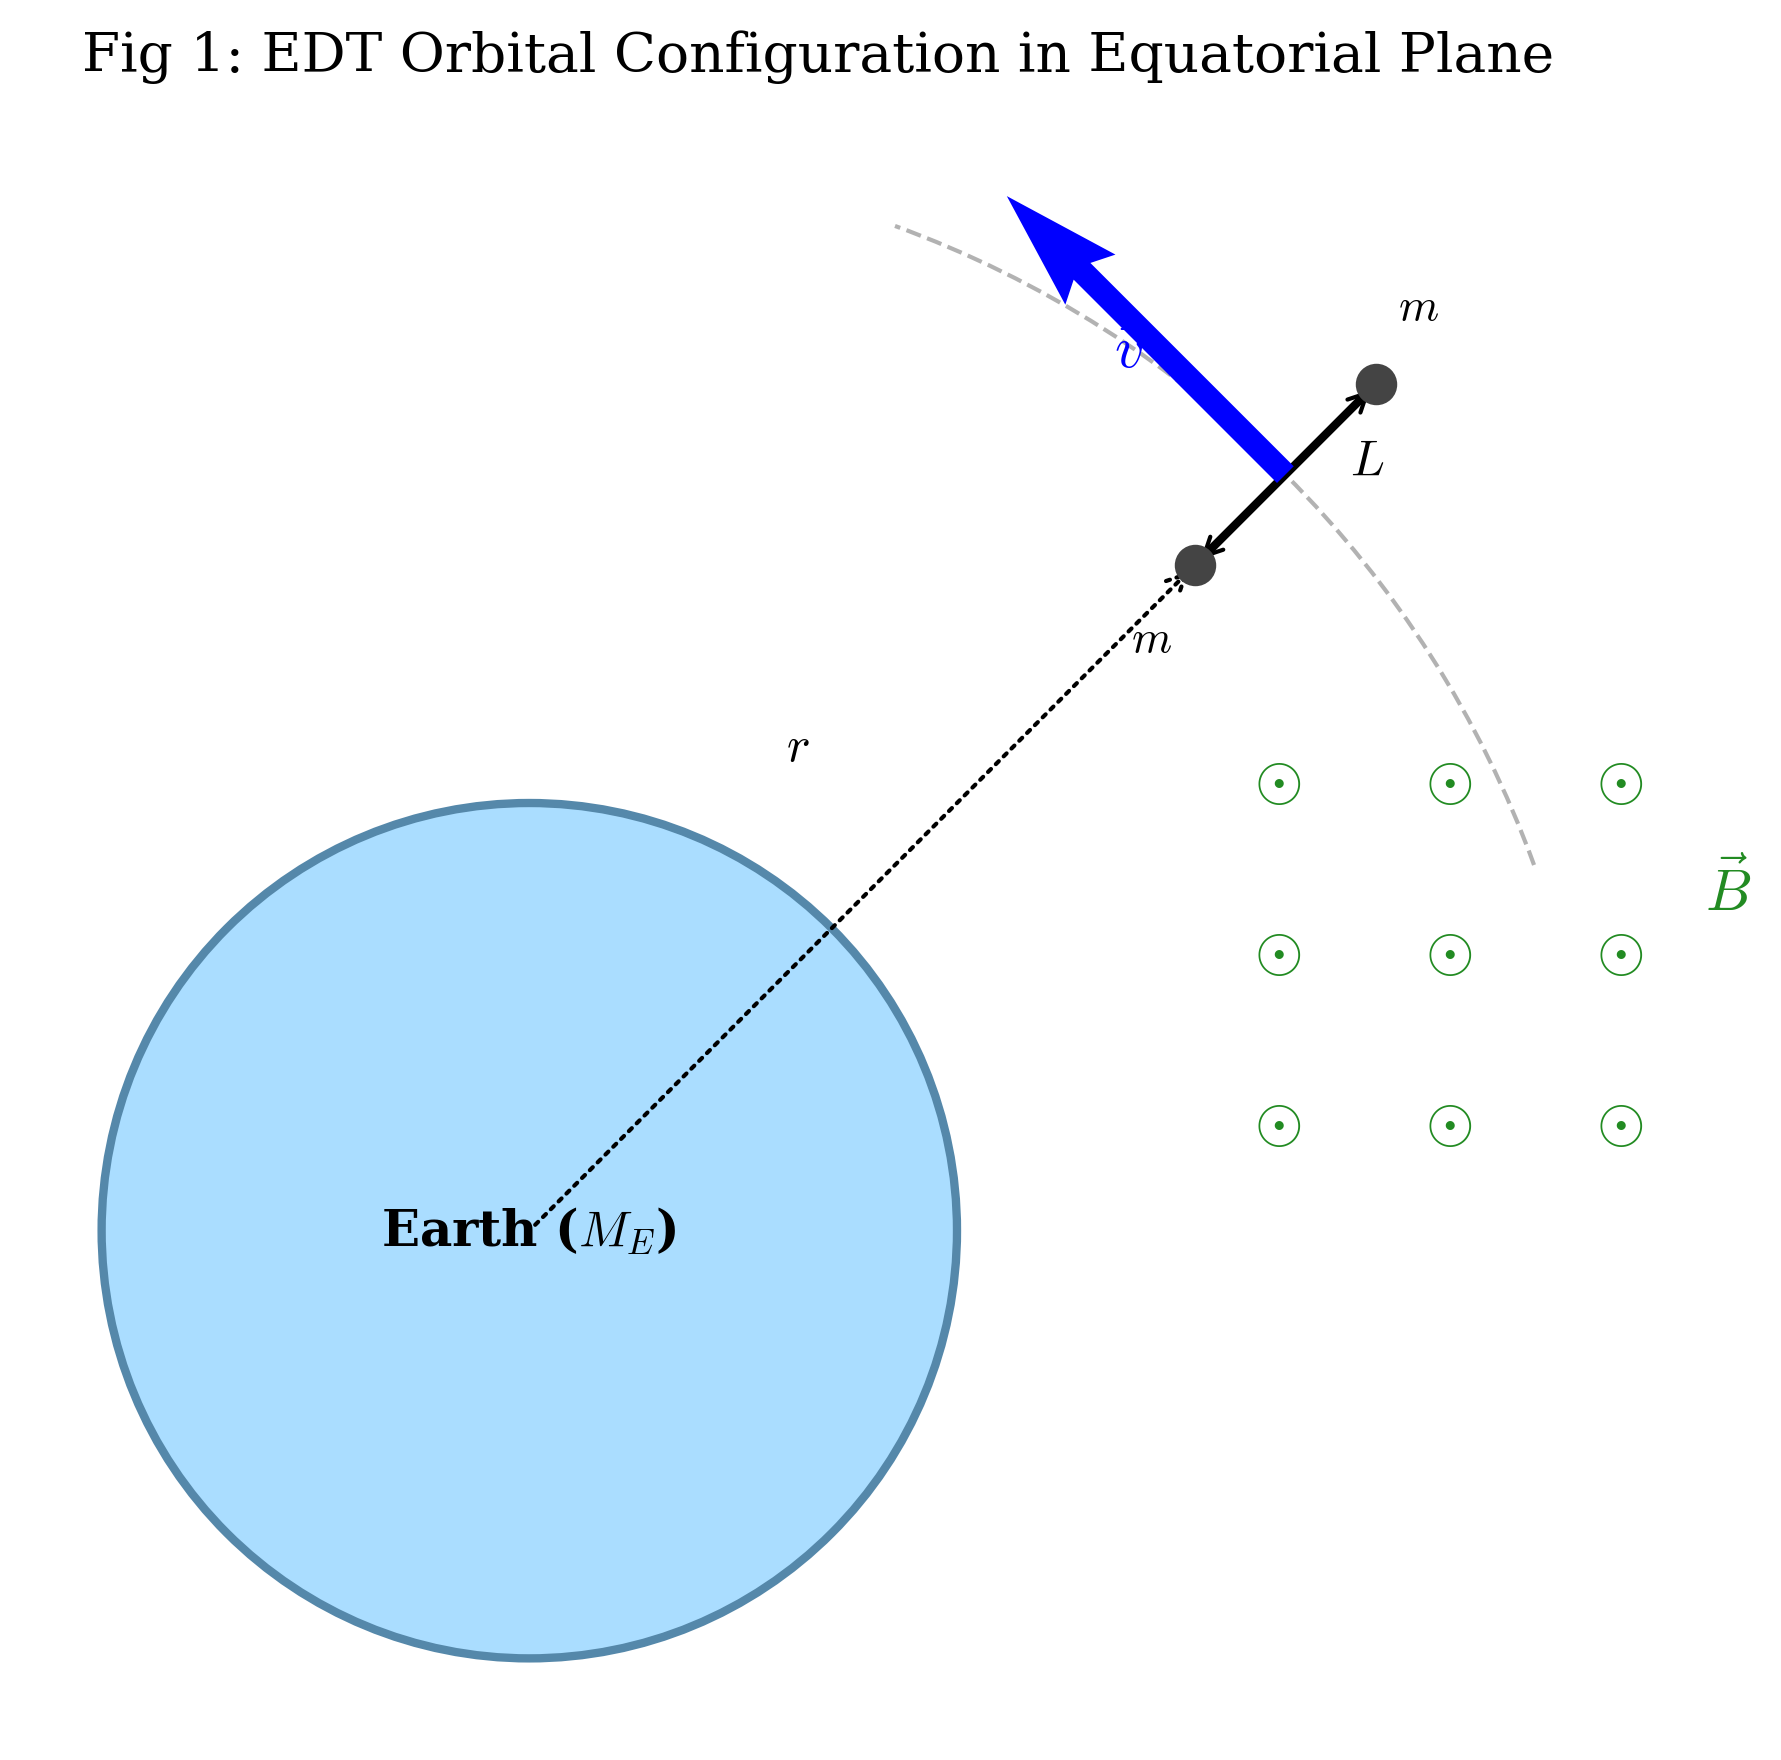
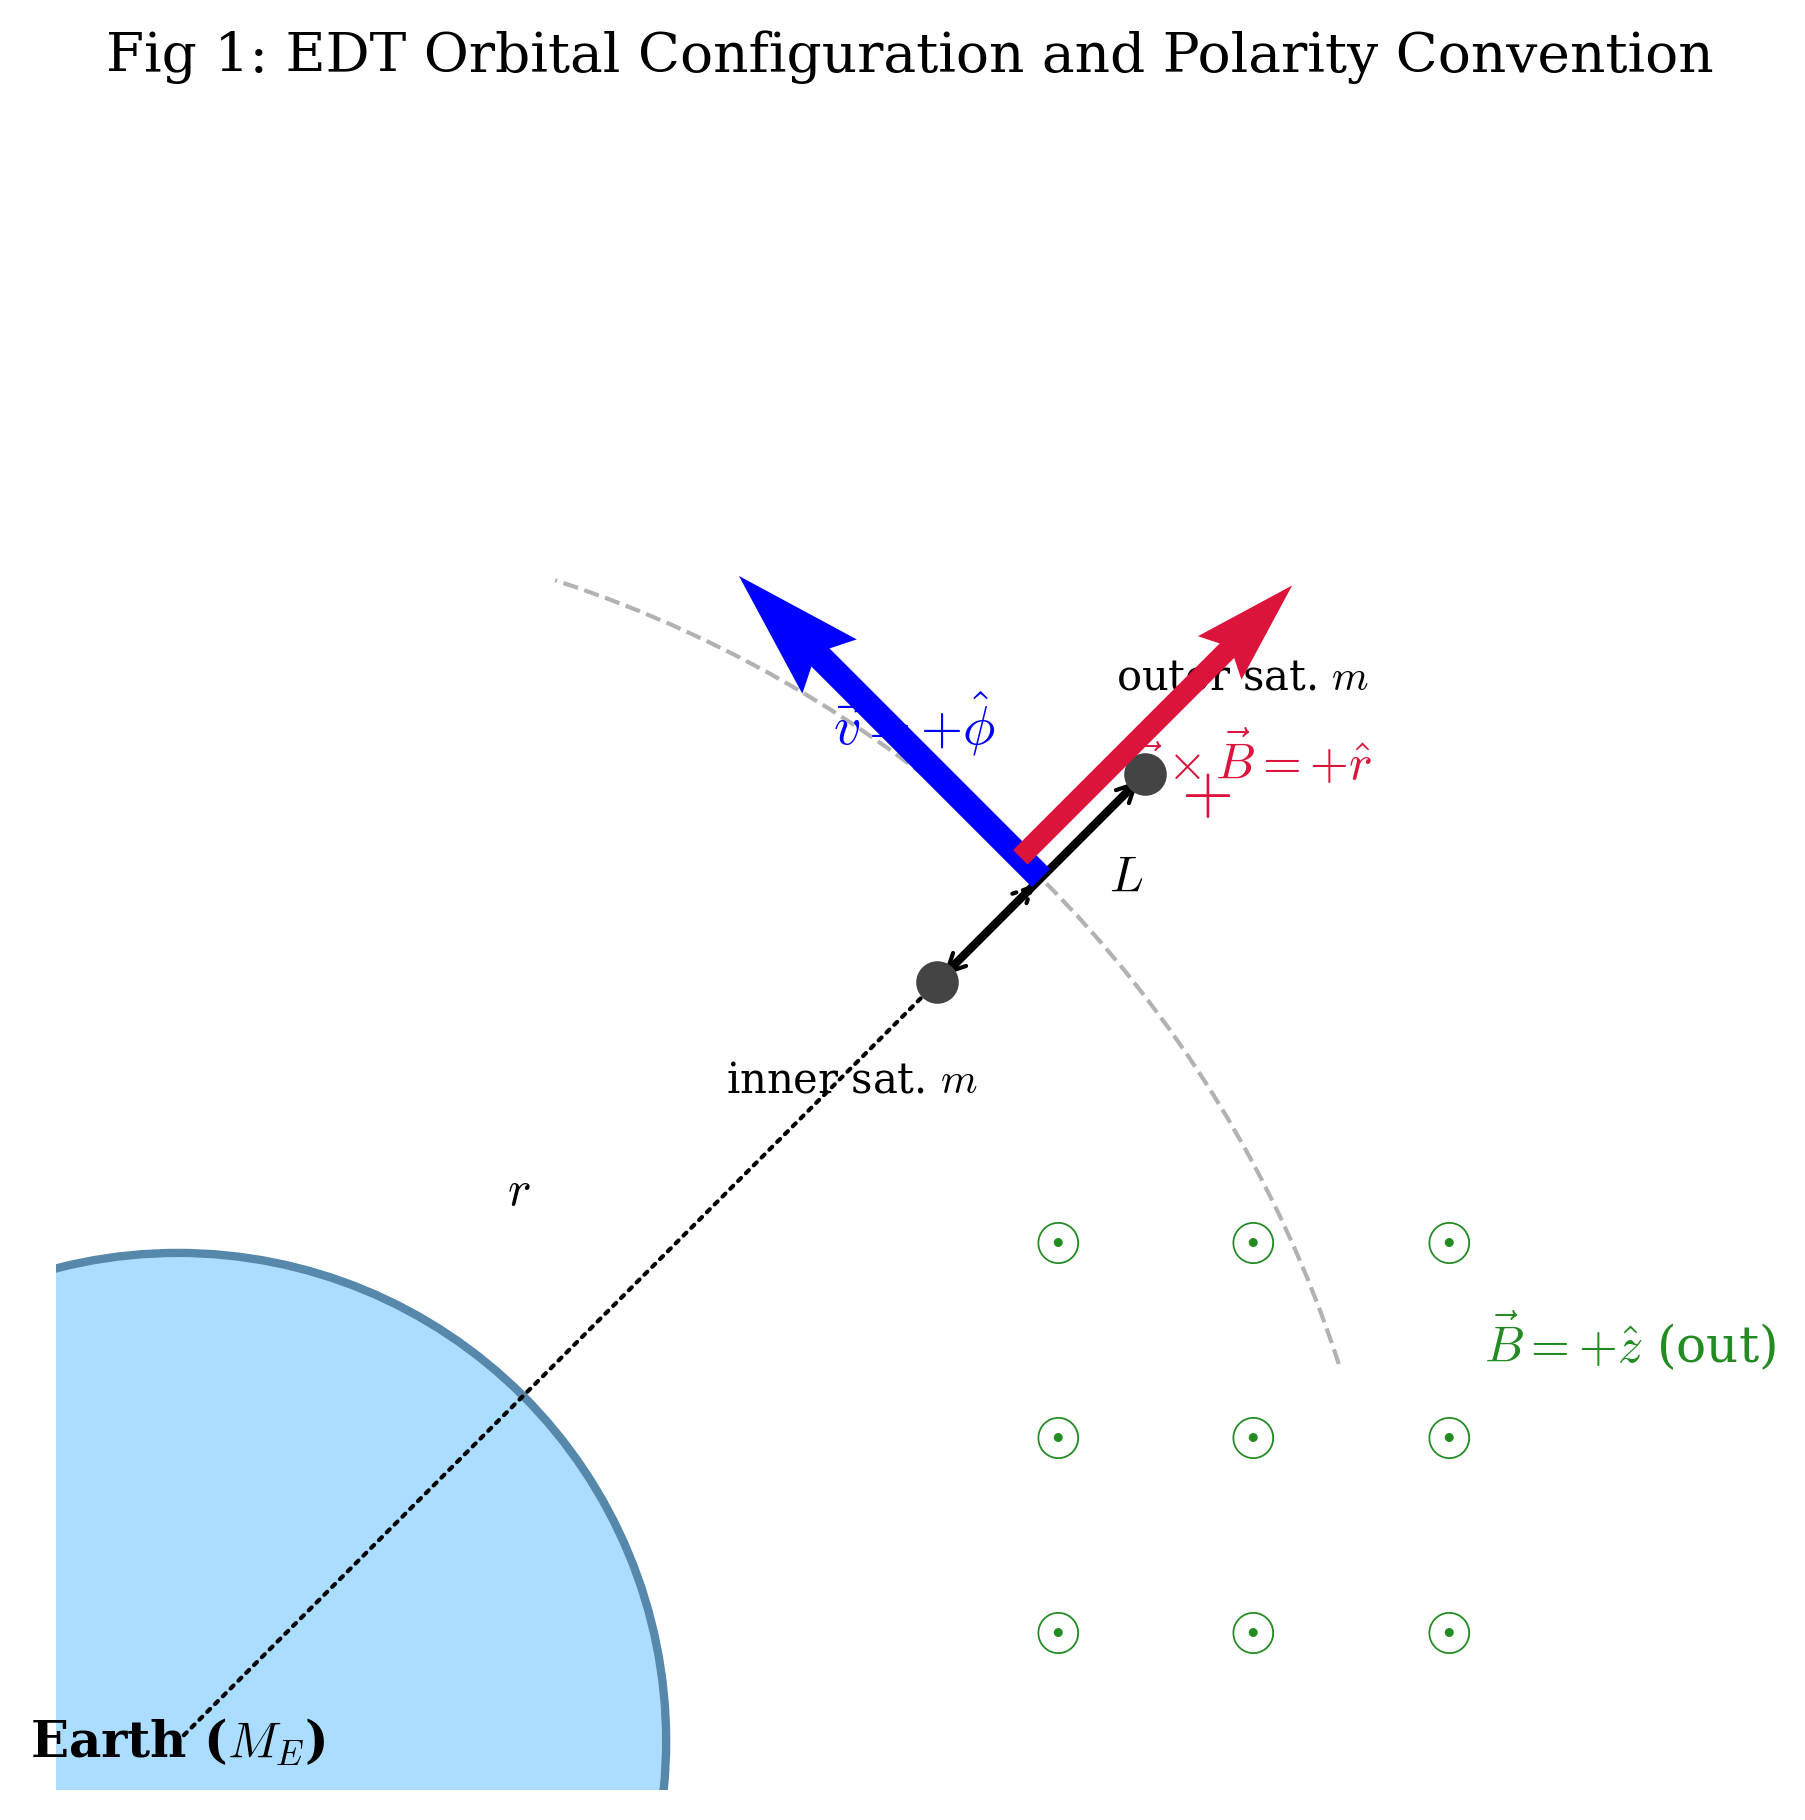
Add files via upload

diff --git a/23307110028刘宸昊/Q1_problem.md b/23307110028刘宸昊/Q1_problem.md
@@ -1,4 +1,4 @@
-
+
 # Question
 # Orbital Decay and Electro-Thermal Equilibrium of an Electrodynamic Tether
 ### Introduction
@@ -12,6 +12,7 @@ Electrodynamic tethers (EDTs) are long conducting wires used to exchange energy 
 *   The mechanical energy of a circular orbit with radius $r$ for a total mass $M_{tot}$ is $E = -\frac{G M_E M_{tot}}{2r}$.
 *   For any $x \ll 1$, the approximation $(1+x)^n \approx 1 + nx$ may be used.
 *   The effective emission area of the cathode is $S_{emit} = \eta S$, where $S$ is the total surface area of the tether and $\eta$ is a dimensionless factor.
+*   Unless stated otherwise, the diagrams use the sign convention $\vec v=+\hat\phi$ and $\vec B=+\hat z$ (out of the page), so $\vec v\times\vec B=+\hat r$ points radially outward.
 
 ---
 
@@ -23,7 +24,7 @@ Consider the tether system initially moving in a stable circular orbit of radius
 
 **A.2.** As the conductive tether cuts through the Earth's magnetic field lines, a motional electromotive force (EMF) is generated between its ends. Give the expression of this EMF, $\mathcal{E}$, as a function of $r$, $L$. **[1.0 pt]**
 
-**A.3.** Determine the polarity of the induced EMF, in other words, which satellite (the one closer to Earth or the one farther from Earth) accumulates positive charges? **[0.8 pt]**
+**A.3.** Using the direction convention shown in Figure 1, namely $\vec v=+\hat\phi$ and $\vec B=+\hat z$ so that $\vec v\times\vec B$ points radially outward, determine the polarity of the induced EMF. Which satellite (the one closer to Earth or the one farther from Earth) accumulates positive charges? **[0.8 pt]**
 
 ---
 
@@ -35,7 +36,7 @@ The tether is immersed in the ionospheric plasma, which is a dilute ionized gas.
 
 **B.2.** Due to the work done by the Lorentz force, the system's mechanical energy dissipates, causing the orbit to decay. Assuming the orbit remains quasi-circular at all times, derive the differential equation for the rate of change of the orbital radius, $dr/dt$, in terms of $I, B_0 L, m, M_E, R_E$, and $r$. **[1.5 pt]**
 
-**B.3.** Let $Q$ be the total charge transferred through the tether as the system descends from an initial radius $r_1$ to a final radius $r_2$. Prove that $Q = \int I dt$ depends only on $r_1, r_2$, and the planetary constants ($M_E, R_E, B_0$), but is independent of the tether's resistance $R$ or the specific time-evolution of the current. Find the expression for $Q$. **[1.5 pt]**
+**B.3.** Let $Q$ be the total charge transferred through the tether as the system descends from an initial radius $r_1$ to a final radius $r_2$. Prove that $Q=\int I dt$ is independent of the tether resistance $R$ and of the detailed time-evolution of the current, and find $Q$ in terms of $r_1$, $r_2$, $m$, $L$, and the planetary constants $M_E$, $R_E$, and $B_0$. **[1.5 pt]**
 
 ---
 
@@ -116,23 +117,23 @@ The phrase "tipping point where $I_{sat}$ is exactly limited by the available EM
   $$\mathcal{E} = B_0 R_E^3 L \sqrt{\frac{G M_E}{r^7}}$$
 
 **[A.3's Standard Solution]**
-- **[Physical Principles]**: The induced electric field is $\vec{E}_{ind} = \vec{v} \times \vec{B}$. In the Earth's equatorial plane, $\vec{v}$ is along the orbital tangent and $\vec{B}$ is directed toward the geographic North.
+- **[Physical Principles]**: The magnetic force on positive charges is $q\vec v\times\vec B$. Under the sign convention in Figure 1, $\vec v=+\hat\phi$ and $\vec B=+\hat z$; therefore $\vec v\times\vec B=+\hat r$.
 - **[Derivation Steps]**:
-  Using the right-hand rule, $\vec{v} \times \vec{B}$ points radially outward (away from Earth's center). Positive charges will therefore accumulate at the end further from Earth.
+  Positive charges are driven radially outward along the tether. Therefore the outer, farther satellite is at positive potential. If the direction of $\vec B$ or the orbital direction were reversed, the polarity would reverse.
 - **[Final Result]**:
-  The satellite **farther from Earth** accumulates positive charges.
+  For the stated convention, the satellite **farther from Earth** accumulates positive charges.
 
 ---
 
 ### Part B
 **[B.1's Standard Solution]**
-- **[Physical Principles]**: The Lorentz force is $d\vec{F}_L = I d\vec{l} \times \vec{B}$.
+- **[Physical Principles]**: The Lorentz force on a current-carrying wire is $d\vec F_L=I d\vec l\times\vec B$.
 - **[Derivation Steps]**:
-  The induced EMF drives a current $I$ from the lower potential (inner) to the higher potential (outer) satellite through the tether. Thus, $d\vec{l}$ is in the $+\hat{r}$ direction.
-  $$\vec{F}_L = \int_{r-L/2}^{r+L/2} I (\hat{r} dr') \times (B(r') \hat{z}) = \int I B(r') (-\hat{\phi}) dr'$$
-  Since the orbital velocity $\vec{v}$ is in the $+\hat{\phi}$ direction, $\vec{F}_L$ is exactly opposite to $\vec{v}$.
+  In the chosen sign convention, the motional EMF drives conventional current inside the tether from the inner end to the outer end; the plasma supplies the return path. Thus $d\vec l=\hat r\,dr'$. With $\vec B=B\hat z$,
+  $$\vec F_L=\int I(\hat r\,dr')\times (B(r')\hat z)\simeq -IB(r)L\hat\phi.$$
+  Since the orbital velocity is $\vec v=v\hat\phi$, the Lorentz force is opposite to the velocity. If the magnetic-field direction and current polarity were reversed together, the passive-drag result remains fixed by Lenz's law.
 - **[Final Result]**:
-  The total force is $\vec{F}_L \approx - I B(r) L \hat{v}$.
+  $$\vec F_L\approx -I B(r)L\hat v.$$
 
 **[B.2's Standard Solution]**
 - **[Equations]**:
@@ -156,30 +157,33 @@ The phrase "tipping point where $I_{sat}$ is exactly limited by the available EM
 **[C.1's Standard Solution]**
 - **[Equations]**:
   1. Energy balance:
-     $$I_{sat}^2 R = \epsilon \sigma S T_{eq}^4 + \frac{I_{sat} \Phi}{e}.$$
-  2. Richardson saturation current:
-     $$I_{sat} = \eta S A_R T_{eq}^2 \exp\left(-\frac{\Phi}{k_B T_{eq}}\right).$$
-  These two equations determine $T_{eq}$ and $I_{sat}$ in the saturation-current regime.
-- **[Self-consistency condition involving the EMF]**:
-  The assumed saturation regime requires the available motional EMF to be large enough to drive the saturated current through the tether resistance,
-  $$\mathcal{E} \ge I_{sat}R,$$
-  up to any contact-potential corrections not included in the simplified model.
+     $$I_{sat}^2R=\epsilon\sigma S T_{eq}^4+\frac{I_{sat}\Phi}{e}.$$
+  2. Richardson current balance:
+     $$I_{sat}=\eta S A_R T_{eq}^2\exp\left(-\frac{\Phi}{k_BT_{eq}}\right).$$
+  3. EMF availability condition for the assumed saturation-current regime:
+     $$\mathcal E\ge I_{sat}R,$$
+     up to any contact-potential corrections not included in the simplified model.
 - **[Final Result]**:
-  $$I_{sat}^2 R = \epsilon \sigma S T_{eq}^4 + \frac{I_{sat} \Phi}{e},\qquad
-  I_{sat} = \eta S A_R T_{eq}^2 \exp\left(-\frac{\Phi}{k_B T_{eq}}\right),\qquad
-  \mathcal{E} \ge I_{sat}R.$$
+  $$I_{sat}^2R=\epsilon\sigma S T_{eq}^4+I_{sat}\Phi/e,\qquad
+  I_{sat}=\eta S A_R T_{eq}^2\exp\left(-\frac{\Phi}{k_BT_{eq}}\right),\qquad
+  \mathcal E\ge I_{sat}R.$$
 
 **[C.2's Standard Solution]**
 - **[Derivation Steps]**:
-  In the limit $I^2 R \gg I \Phi/e$ and $k_B T \gg \Phi$, the thermal equations reduce to the consistency relations
-  $$I^2R\approx \epsilon\sigma S T^4,\qquad I_{sat}\approx \eta S A_R T^2.$$
-  At the tipping point, the saturation current is just equal to the current allowed by the available EMF and the tether resistance:
-  $$I=I_{sat}=\frac{\mathcal{E}}{R}=\frac{BvL}{R}.$$
-  Substituting this into the magnitude of the orbital-decay equation from B.2,
+  In the high-temperature limit, the thermal balance and Richardson law give the consistency relations
+  $$I^2R\simeq \epsilon\sigma S T^4,$$
+  $$I_{sat}\simeq \eta S A_R T^2\left(1-\frac{\Phi}{k_BT}\right).$$
+  At the tipping point, the saturation current is just equal to the current allowed by the available motional EMF and the tether resistance:
+  $$I=I_{sat}=\frac{\mathcal E}{R}=\frac{BvL}{R}.$$
+  Therefore the temperature required for thermal consistency is approximately
+  $$T\simeq\left(\frac{B^2v^2L^2}{R\epsilon\sigma S}\right)^{1/4},$$
+  together with
+  $$\frac{BvL}{R}\simeq \eta S A_R T^2\left(1-\frac{\Phi}{k_BT}\right).$$
+  Substituting $I=BvL/R$ into the magnitude of the B.2 decay equation,
   $$\left|\frac{dr}{dt}\right|=\frac{IBLr}{mv},$$
-  gives
+  yields
   $$\left|\frac{dr}{dt}\right|=\frac{(BvL/R)BLr}{mv}=\frac{B^2L^2r}{mR}.$$
-  The parameters $S$ and $\epsilon$ set the thermal consistency condition for reaching the tipping point, but they cancel from the final mechanical decay rate once $I=\mathcal{E}/R$ is imposed.
+  Thus $S$ and $\epsilon$ enter the thermal consistency conditions but cancel from the final mechanical decay-rate expression.
 - **[Final Result]**:
   $$\left|\frac{dr}{dt}\right|=\frac{B^2L^2r}{mR}.$$
 
@@ -272,7 +276,7 @@ The phrase "tipping point where $I_{sat}$ is exactly limited by the available EM
 | **B.3** | **Integral setup & variable substitution:** $Q = \int I dt = \int I \left(\frac{dt}{dr}\right) dr$ | 0.5 | |
 | | **Canceling Current ($I$):** Substituting $dt/dr$ from B.2: $I dt = -\frac{m\sqrt{GM_E}}{B(r) L r^{3/2}} dr$, explicitly showing $I$ cancels. | 0.5 | **ECF:** If a model error in B.2 prevents $I$ from canceling, award 0 marks from this point onward (model collapse). |
 | | **Integration:** Correctly integrating $\int r^{3/2} dr = \frac{2}{5}r^{5/2}$ | 0.3 | Limits must correspond correctly ($r_1 \to r_2$ with $r_1 > r_2$ or absorbing the negative sign). |
-| | **Final Result:** $Q = \frac{2 m \sqrt{G M_E}}{5 B_0 R_E^3 L} (r_1^{5/2} - r_2^{5/2})$ | 0.2 | Expression devoid of $I(t)$ or $R$ automatically satisfies the "prove" requirement. <br>**1.5 pts Total for B.3** |
+| | **Final Result:** $Q = \frac{2 m \sqrt{G M_E}}{5 B_0 R_E^3 L} (r_1^{5/2} - r_2^{5/2})$ | 0.2 | Expression devoid of $I(t)$ or $R$ satisfies the independence requirement, while the dependence on $m$ and $L$ is physically retained. <br>**1.5 pts Total for B.3** |
 | **Subtotal** | **Part B Total** | **4.0** | |
 
 ---
@@ -469,5 +473,4 @@ if __name__ == "__main__":
     generate_figure_2()
     print("All figures generated for IPhO Problem 1.")
 ```
-
 
